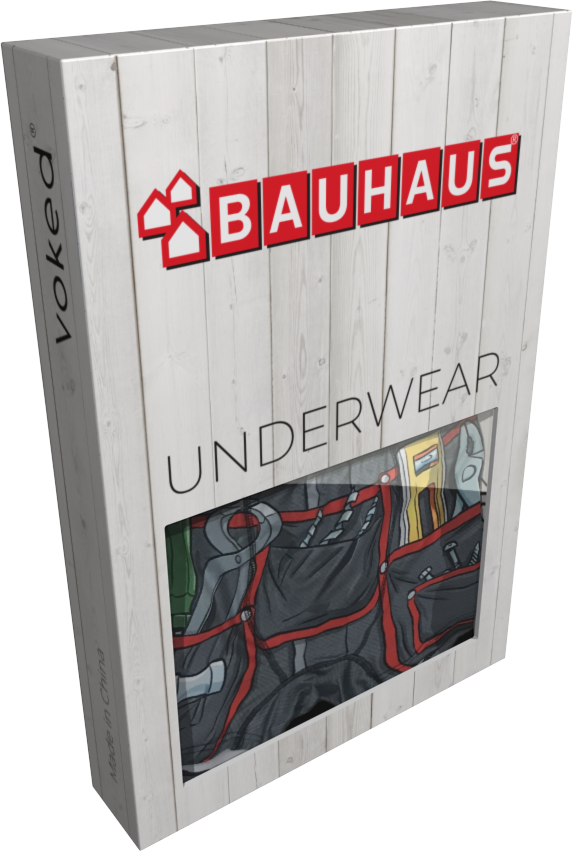
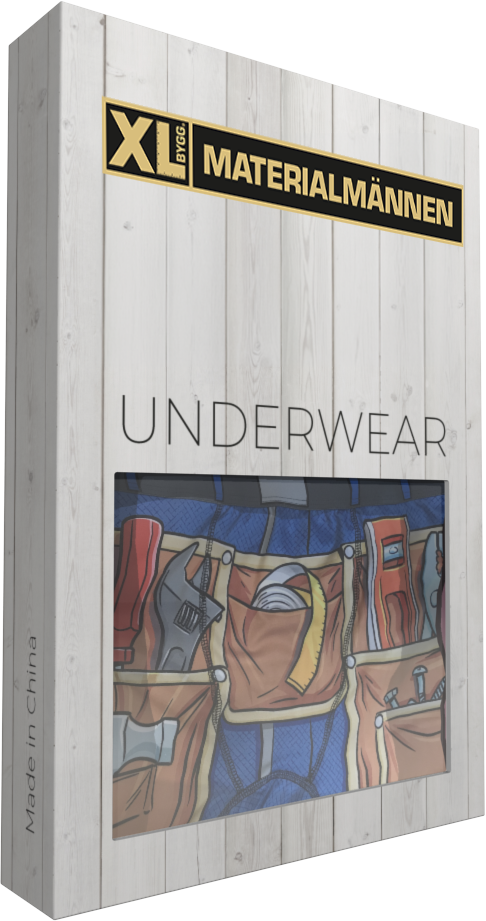
Kalsonger 2027: XL-BYGG-lådor i förpackningsblocket
Claude-Session: https://claude.ai/code/session_01AE5iKwkdq4Ei7XsGbvuTHc

diff --git a/kalsonger/index.html b/kalsonger/index.html
@@ -232,9 +232,9 @@
       </ul>
     </div>
     <div class="boxes">
-      <span class="tag">Exempel från tidigare upplaga</span>
-      <img src="img/box.png" alt="Förpackning med kundlogga, exempel" loading="lazy">
-      <img src="img/box2.png" alt="Förpackning med kundlogga, exempel" loading="lazy">
+      <span class="tag">XL-BYGG Materialmännen · XL-BYGG Åkersberga</span>
+      <img src="img/box.png" alt="Förpackning med XL-BYGG Materialmännens logga" loading="lazy">
+      <img src="img/box2.png" alt="Förpackning med XL-BYGG Åkersbergas logga" loading="lazy">
     </div>
   </div>
 </section>
